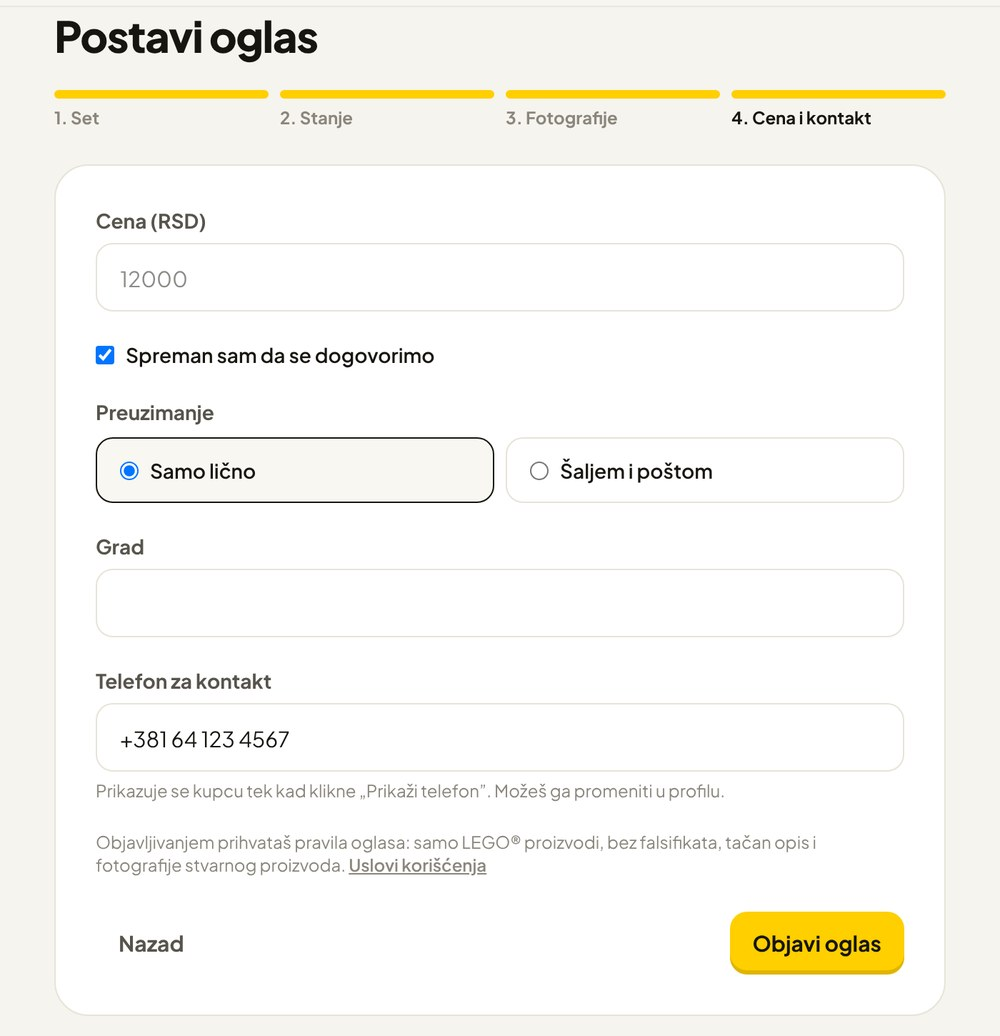
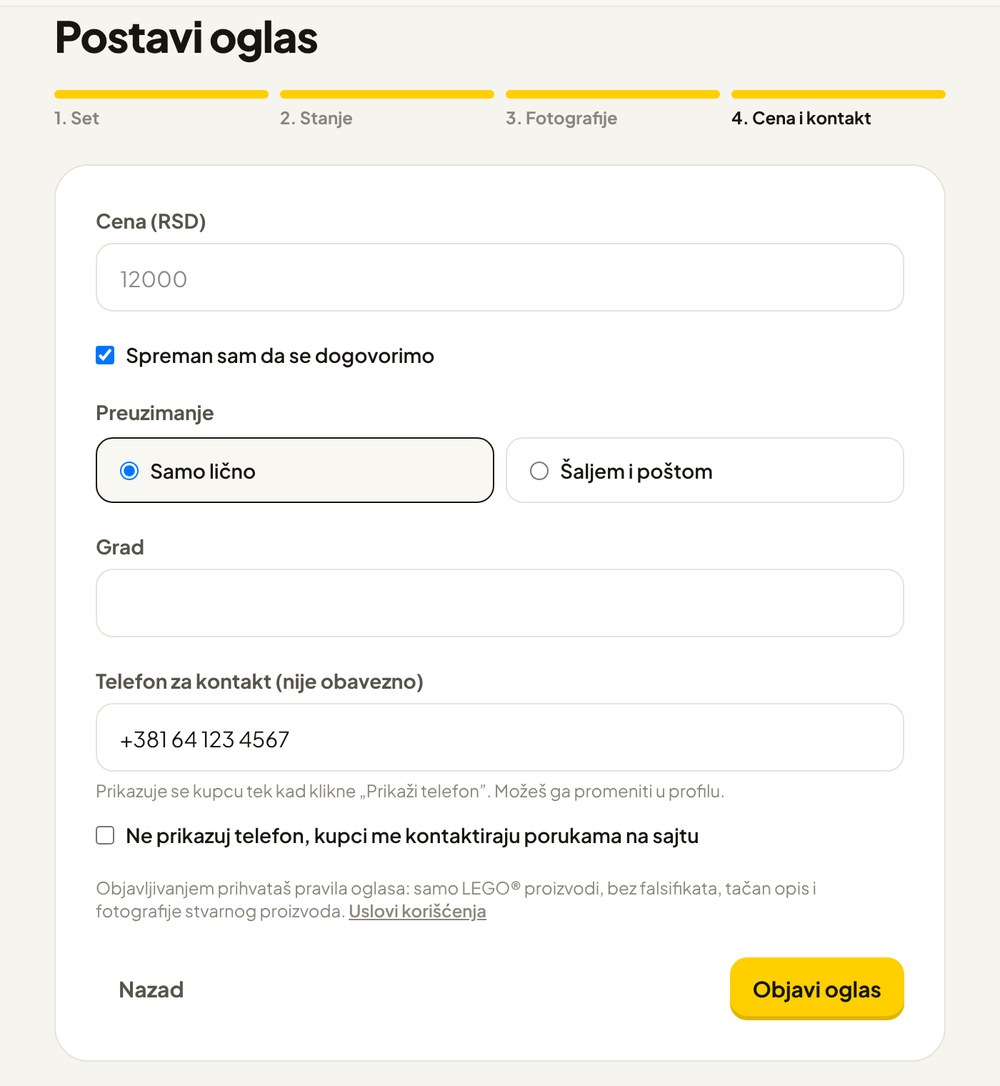
Oglasi: telefon nije obavezan, kvačica "Ne prikazuj telefon" u nalogu i na formi
Prodavac može da objavi oglas bez telefona; kupci ga tada kontaktiraju porukama
na sajtu. Ažurirani Uslovi, test i blog post.

Claude-Session: https://claude.ai/code/session_0163xLHJAVRsjZ3ouydpqJJi

diff --git a/web/src/i18n/sr.ts b/web/src/i18n/sr.ts
@@ -808,7 +808,7 @@ export const sr = {
   'ads.detail.posted': "Postavljeno {when}",
   'ads.detail.contact': "Kontaktiraj prodavca",
   'ads.detail.showPhone': "Prikaži telefon",
-  'ads.detail.noPhone': "Prodavac nije ostavio telefon.",
+  'ads.detail.noPhone': "Prodavac ne prikazuje telefon. Pošalji mu poruku.",
   'ads.detail.message': "Pošalji poruku",
   'ads.detail.messagePlaceholder': "Zdravo, da li je oglas još aktuelan?",
   'ads.detail.messageSent': "Poruka je poslata (u prototipu se ne šalje nikome).",
@@ -851,9 +851,9 @@ export const sr = {
   'ads.new.priceLabel': "Cena (RSD)",
   'ads.new.negotiable': "Spreman sam da se dogovorimo",
   'ads.new.cityLabel': "Grad",
-  'ads.new.phoneLabel': "Telefon za kontakt",
+  'ads.new.phoneLabel': "Telefon za kontakt (nije obavezno)",
   'ads.new.phoneHint': "Prikazuje se kupcu tek kad klikne „Prikaži telefon”. Možeš ga promeniti u profilu.",
-  'ads.new.phoneNeeded': "Da bi postavio oglas, dodaj telefon u profilu.",
+  'ads.new.phoneHidden': "Ne prikazuj telefon, kupci me kontaktiraju porukama na sajtu",
   'ads.new.next': "Dalje",
   'ads.new.back': "Nazad",
   'ads.new.photoBusy': "Obrađujem…",
@@ -877,8 +877,8 @@ export const sr = {
   'ads.mine.edit': "Pregledaj",
   'ads.mine.expires': "Ističe za {n} dana",
   'ads.sellerInfo.title': "Podaci za prodaju",
-  'ads.sellerInfo.text': "Telefon vide samo kupci koji ga otkriju na tvom oglasu.",
-  'ads.sellerInfo.save': "Sačuvaj telefon",
+  'ads.sellerInfo.text': "Telefon vide samo prijavljeni kupci koji ga otkriju na tvom oglasu. Ako ga ne ostaviš, kupci te kontaktiraju porukama na sajtu.",
+  'ads.sellerInfo.save': "Sačuvaj",
   'ads.sellerInfo.saved': "Sačuvano",
   'register.phone': "Telefon za kontakt (nije obavezno)",
   'register.phoneHint': "Treba ti samo ako želiš da postavljaš oglase. Možeš ga dodati i kasnije u profilu.",
@@ -960,7 +960,7 @@ export const sr = {
   'terms.who.h': 'Ko može da postavlja oglase',
   'terms.who.1': 'Oglase postavljaju fizička lica koja prodaju svoje korišćene LEGO® proizvode.',
   'terms.who.2': 'Nisu dozvoljeni: nova roba, prodavci koji izdaju fiskalne račune ili se bave prodajom kao delatnošću i preprodaja radi zarade.',
-  'terms.who.3': 'Za postavljanje oglasa potreban je telefon u nalogu. Zbog zaštite od zloupotrebe ograničen je broj novih oglasa dnevno i broj aktivnih oglasa.',
+  'terms.who.3': 'Telefon za oglase nije obavezan: ako ga ne uneseš, kupci te kontaktiraju porukama na sajtu. Zbog zaštite od zloupotrebe ograničen je broj novih oglasa dnevno i broj aktivnih oglasa.',
   'terms.rules.h': 'Šta sme da se oglašava',
   'terms.rules.1': 'Samo originalni LEGO® proizvodi i delovi, sa tačnim opisom, stanjem i cenom u dinarima.',
   'terms.rules.2': 'Fotografije moraju da prikazuju proizvod koji prodaješ. Ne koristi tuđe fotografije, slike sa interneta ni fotografije na kojima se vide ljudi ili tuđi lični podaci.',

diff --git a/web/src/ads/NewListing.tsx b/web/src/ads/NewListing.tsx
@@ -49,6 +49,7 @@ function ListingForm({ edit }: { edit?: Listing }) {
   const [negotiable, setNegotiable] = useState(edit?.negotiable ?? true);
   const [city, setCity] = useState(edit?.city ?? '');
   const [phone, setPh] = useState(savedPhone);
+  const [hidePhone, setHidePhone] = useState(false);
   const [err, setErr] = useState<string | null>(null);
 
   const [sugg, setSugg] = useState<{ num: string; name: string; theme: string }[]>([]);
@@ -142,13 +143,14 @@ function ListingForm({ edit }: { edit?: Listing }) {
 
   async function publish() {
     const p = Number(price);
-    const e = !(p > 0) ? t('ads.new.errPrice') : !city.trim() ? t('ads.new.errCity') : phone.replace(/\D/g, '').length < 8 ? t('ads.new.errPhone') : null;
+    const e = !(p > 0) ? t('ads.new.errPrice') : !city.trim() ? t('ads.new.errCity') : !hidePhone && phone.trim() && phone.replace(/\D/g, '').length < 8 ? t('ads.new.errPhone') : null;
     setErr(e);
     if (e || saving) return;
     setSaving(true);
     try {
       // the phone lives on the account, so it is saved first when it changed
-      if (phone.trim() !== savedPhone) await profile.mutateAsync({ phone: phone.trim() });
+      const wanted = hidePhone ? '' : phone.trim();
+      if (wanted !== savedPhone) await profile.mutateAsync({ phone: wanted });
       const form: AdForm = {
         title: title.trim(),
         description: desc.trim(),
@@ -327,8 +329,9 @@ function ListingForm({ edit }: { edit?: Listing }) {
             </div>
             <Field label={t('ads.new.cityLabel')} value={city} onChange={(e) => setCity(e.target.value)} autoComplete="address-level2" />
             <div>
-              <Field label={t('ads.new.phoneLabel')} value={phone} onChange={(e) => setPh(e.target.value)} inputMode="tel" autoComplete="tel" placeholder="+381 6x xxx xxxx" />
-              <p className="mt-1.5 text-xs text-ink-3">{savedPhone ? t('ads.new.phoneHint') : `${t('ads.new.phoneNeeded')} ${t('ads.new.phoneHint')}`}</p>
+              <Field label={t('ads.new.phoneLabel')} value={hidePhone ? '' : phone} disabled={hidePhone} onChange={(e) => setPh(e.target.value)} inputMode="tel" autoComplete="tel" placeholder="+381 6x xxx xxxx" />
+              <p className="mt-1.5 text-xs text-ink-3">{t('ads.new.phoneHint')}</p>
+              <label className="mt-3 flex items-center gap-2 text-sm font-semibold"><input type="checkbox" checked={hidePhone} onChange={(e) => setHidePhone(e.target.checked)} /> {t('ads.new.phoneHidden')}</label>
             </div>
             <p className="text-xs text-ink-3">{t('ads.new.rules')} <Link to="/uslovi" className="font-semibold underline">{t('ads.new.rulesLink')}</Link></p>
           </>

diff --git a/server/test/listings.test.ts b/server/test/listings.test.ts
@@ -89,7 +89,7 @@ describe.skipIf(!dbAvailable)('Oglasi: ads, pictures, following, messages, moder
     expect(json((await app.inject({ method: 'GET', url: '/api/auth/me', headers: as('alice') }))).listings).toBe(true);
   });
 
-  it('turns any photo into a uniform 1200×900 JPEG with the stamp, and needs a phone to post', async () => {
+  it('turns any photo into a uniform 1200×900 JPEG with the stamp, and accepts a valid phone', async () => {
     const bad = await upload('alice', Buffer.from('not a picture'));
     expect(bad.statusCode).toBe(400);
     const r = await upload('alice', await png(600, 900)); // portrait
@@ -104,9 +104,6 @@ describe.skipIf(!dbAvailable)('Oglasi: ads, pictures, following, messages, moder
     expect((await px(600, 450))[0]).toBeGreaterThan(150); // red photo in the middle
     expect((await px(1100, 860))[0]).toBeLessThan(120); // stamp pill, dark
 
-    const noPhone = await app.inject({ method: 'POST', url: '/api/oglasi', headers: as('alice'), payload: ad([imgId]) });
-    expect(noPhone.statusCode).toBe(400);
-    expect(json(noPhone).code).toBe('phone_required');
     expect((await app.inject({ method: 'PATCH', url: '/api/me', headers: as('alice'), payload: { phone: 'abc' } })).statusCode).toBe(400);
     expect((await app.inject({ method: 'PATCH', url: '/api/me', headers: as('alice'), payload: { phone: '+381 63 805 2042' } })).statusCode).toBe(200);
   });
@@ -124,6 +121,17 @@ describe.skipIf(!dbAvailable)('Oglasi: ads, pictures, following, messages, moder
     adId = json(ok).id;
     expect((await post(ad([imgId]))).statusCode).toBe(400); // already attached to the first ad
     await query('DELETE FROM listing_images WHERE user_id = (SELECT id FROM users WHERE email = $1)', ['bob@example.com']);
+  });
+
+  it('lets a seller post without a phone: buyers then only get the messages', async () => {
+    const pic = json(await upload('bob', await png(800, 600))).id;
+    const posted = await app.inject({ method: 'POST', url: '/api/oglasi', headers: as('bob'), payload: ad([pic]) });
+    expect(posted.statusCode).toBe(200);
+    const id = json(posted).id;
+    const detail = json(await app.inject({ method: 'GET', url: `/api/oglasi/${id}`, headers: as('alice') }));
+    expect(detail.has_phone).toBe(false);
+    expect((await app.inject({ method: 'GET', url: `/api/oglasi/${id}/telefon`, headers: as('alice') })).statusCode).toBe(404);
+    expect((await app.inject({ method: 'DELETE', url: `/api/oglasi/${id}`, headers: as('bob') })).statusCode).toBe(200);
   });
 
   it('lists active ads without the seller\'s phone, and gives the phone only on request', async () => {

diff --git a/web/src/ads/SellerCard.tsx b/web/src/ads/SellerCard.tsx
@@ -12,6 +12,7 @@ export function SellerCard() {
   const { user, listings } = useAuth();
   const save = useProfileMutation();
   const [v, setV] = useState(user?.phone ?? '');
+  const [hide, setHide] = useState(false);
   const [ok, setOk] = useState(false);
   const [err, setErr] = useState<string | null>(null);
   if (!listings || !user) return null;
@@ -24,12 +25,15 @@ export function SellerCard() {
         onSubmit={(e) => {
           e.preventDefault();
           setErr(null);
-          save.mutate({ phone: v.trim() }, { onSuccess: () => setOk(true), onError: (x) => setErr(x instanceof ApiError ? x.message : t('ads.detail.errorGeneric')) });
+          save.mutate({ phone: hide ? '' : v.trim() }, { onSuccess: () => setOk(true), onError: (x) => setErr(x instanceof ApiError ? x.message : t('ads.detail.errorGeneric')) });
         }}
       >
         <label className="block">
           <span className="mb-1.5 block text-sm font-bold text-ink-2">{t('ads.new.phoneLabel')}</span>
-          <input className={input} value={v} onChange={(e) => (setV(e.target.value), setOk(false))} inputMode="tel" autoComplete="tel" placeholder="+381 6x xxx xxxx" />
+          <input className={input} value={hide ? '' : v} disabled={hide} onChange={(e) => (setV(e.target.value), setOk(false))} inputMode="tel" autoComplete="tel" placeholder="+381 6x xxx xxxx" />
+        </label>
+        <label className="flex items-center gap-2 text-sm font-semibold">
+          <input type="checkbox" checked={hide} onChange={(e) => (setHide(e.target.checked), setOk(false))} /> {t('ads.new.phoneHidden')}
         </label>
         <label className="flex items-start gap-2 text-sm font-semibold">
           <input type="checkbox" className="mt-1" checked={user.msg_email_enabled ?? true} onChange={(e) => save.mutate({ msgEmailEnabled: e.target.checked })} />

diff --git a/server/src/api/routes/listings.ts b/server/src/api/routes/listings.ts
@@ -136,20 +136,10 @@ export async function listingRoutes(app: FastifyInstance) {
     return { items: rows.map((l) => present(l, req.user!.id)) };
   });
 
-  // ---- writing ----
-  async function checkProfile(req: FastifyRequest, reply: FastifyReply) {
-    const u = await one<{ phone: string | null }>('SELECT phone FROM users WHERE id = $1', [req.user!.id]);
-    if (!u?.phone) {
-      reply.code(400).send({ error: 'Da bi postavio oglas, dodaj telefon u profilu.', code: 'phone_required' });
-      return false;
-    }
-    return true;
-  }
-
+  // ---- writing (a phone is optional: without one, buyers write through the site's messages) ----
   app.post('/api/oglasi', { preHandler: [gate, requireUser] }, async (req, reply) => {
     const userId = req.user!.id;
     const b = adBody.parse(req.body);
-    if (!(await checkProfile(req, reply))) return;
     if (limits.create.hit(String(userId))) return reply.code(429).send({ error: 'Danas si postavio dosta oglasa. Pokušaj sutra.' });
     const active = await one<{ n: number }>("SELECT count(*)::int AS n FROM listings WHERE user_id = $1 AND status IN ('active', 'paused')", [userId]);
     if ((active?.n ?? 0) >= MAX_ACTIVE_PER_USER) return reply.code(400).send({ error: `Najviše ${MAX_ACTIVE_PER_USER} aktivnih oglasa po nalogu.` });
@@ -179,7 +169,6 @@ export async function listingRoutes(app: FastifyInstance) {
     const l = await ownOpen(req, reply);
     if (!l) return;
     const b = adBody.parse(req.body);
-    if (!(await checkProfile(req, reply))) return;
     if (!(await ownedFreeImages(req.user!.id, b.images, l.id))) return reply.code(400).send({ error: 'Fotografije nisu ispravne. Otpremi ih ponovo.' });
     const gone = await tx(async (c) => {
       const vals = FIELDS.map((f) => (b as Record<string, unknown>)[f] ?? null);

diff --git a/server/content/blog/kako-da-postavis-oglas-za-lego-set.md b/server/content/blog/kako-da-postavis-oglas-za-lego-set.md
@@ -15,7 +15,7 @@ Primer: prodajem LEGO Botanicals 10328 Buket ruža, korišćen, sa kutijom i upu
 
 ## Pre nego što počneš
 
-Treba ti Kockolov nalog i broj telefona u profilu. Telefon kupac ne vidi odmah, već tek kad klikne „Prikaži telefon“. Fizička lica na Kockolovu prodaju samo korišćene proizvode, i samo LEGO®, bez falsifikata.
+Treba ti samo Kockolov nalog. Telefon nije obavezan: ako ga uneseš, kupac ga ne vidi odmah, već tek kad klikne „Prikaži telefon“, a ako ne želiš da ga ostaviš, kupci te kontaktiraju porukama na sajtu. Fizička lica na Kockolovu prodaju samo korišćene proizvode, i samo LEGO®, bez falsifikata.
 
 Nemaš nalog? [Napravi ga ovde](/registracija).
 
@@ -45,7 +45,7 @@ Idealna fotografija je vodoravna, 1200 × 900 piksela (odnos 4:3). Svaku sliku s
 
 ## Korak 4: Cena i kontakt
 
-Upiši cenu u dinarima i označi da li si spreman da se dogovorite. Izaberi da li je preuzimanje samo lično ili šalješ i poštom, upiši grad i potvrdi telefon. Pre nego što klikneš **Objavi oglas**, pročitaj kratka pravila oglasa i [Uslove korišćenja](/uslovi).
+Upiši cenu u dinarima i označi da li si spreman da se dogovorite. Izaberi da li je preuzimanje samo lično ili šalješ i poštom, upiši grad i, ako želiš, telefon. Ne moraš da ga ostaviš: kvačicom „Ne prikazuj telefon“ kupci te kontaktiraju samo porukama na sajtu. Pre nego što klikneš **Objavi oglas**, pročitaj kratka pravila oglasa i [Uslove korišćenja](/uslovi).
 
 ![Četvrti korak: cena, dogovor, preuzimanje, grad i telefon, dugme Objavi oglas](/media/blog/oglasi-korak-4-cena.jpg)
 
